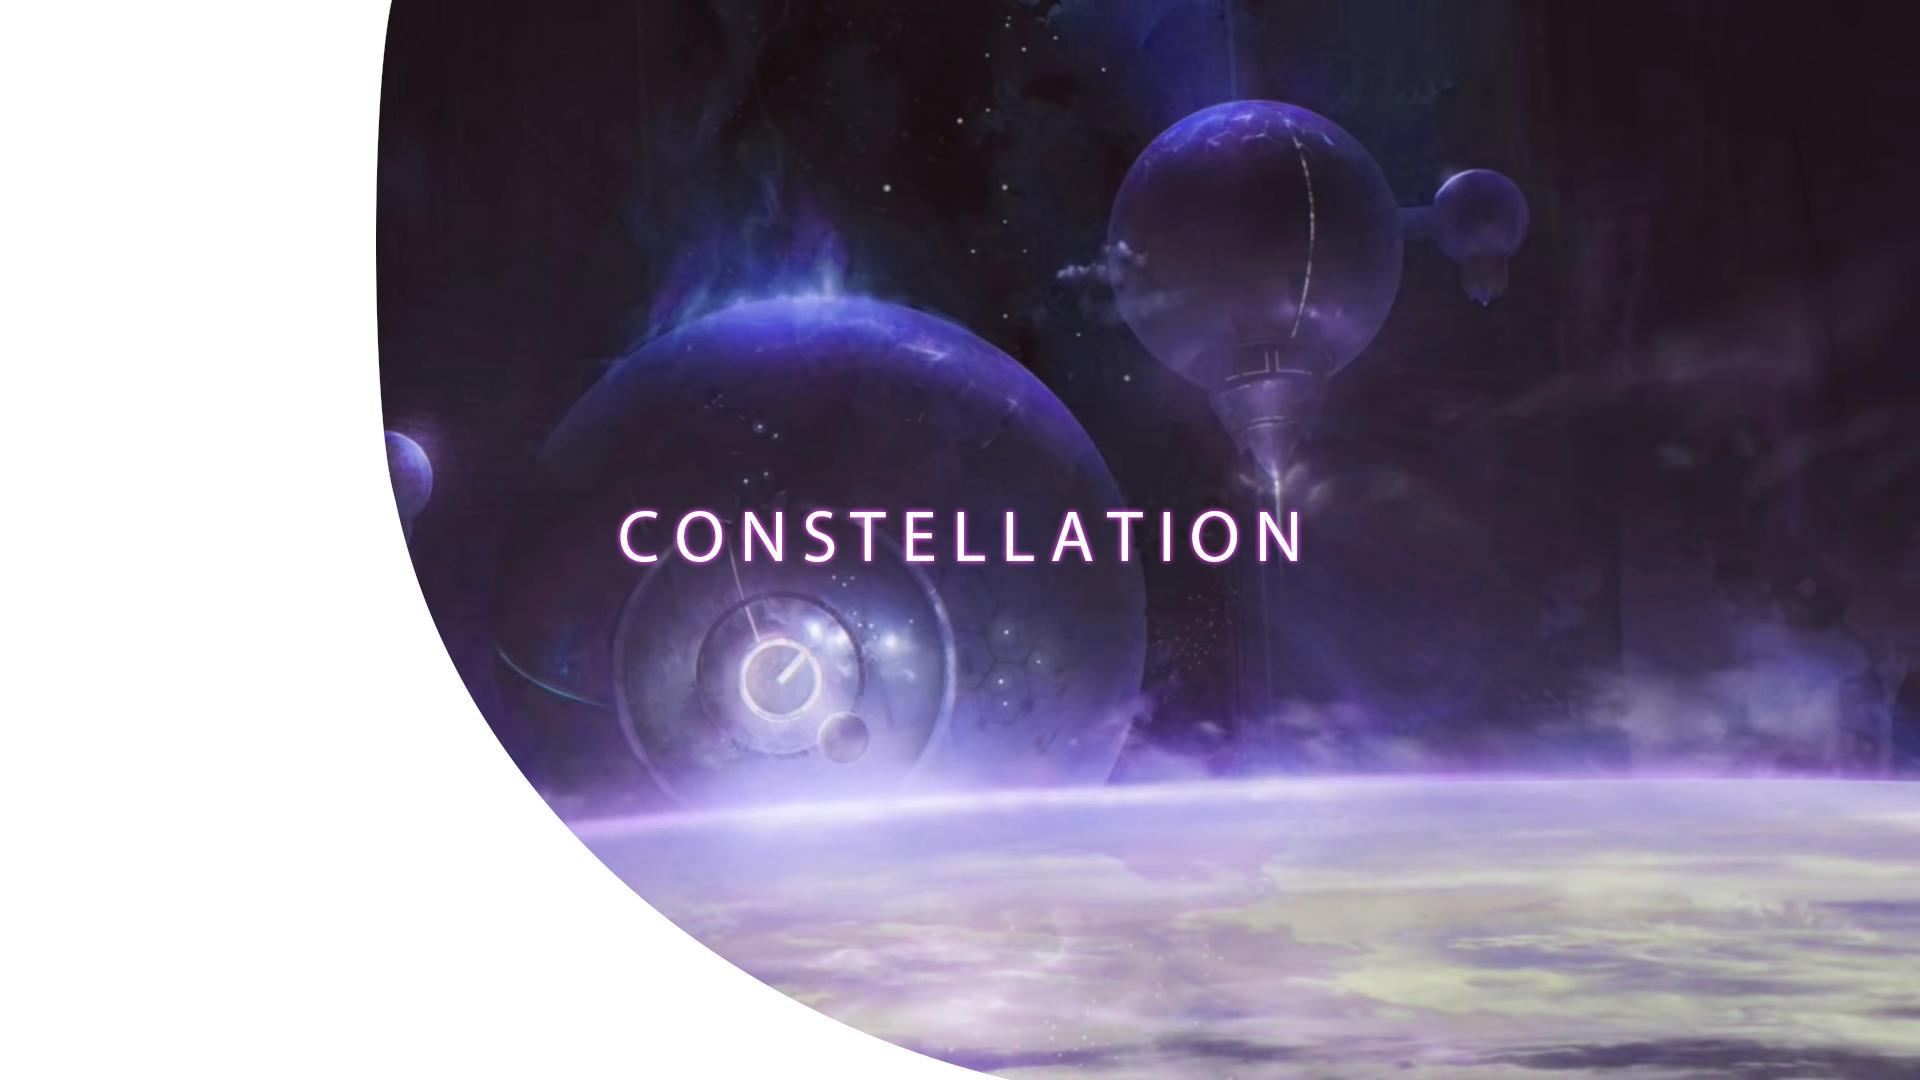
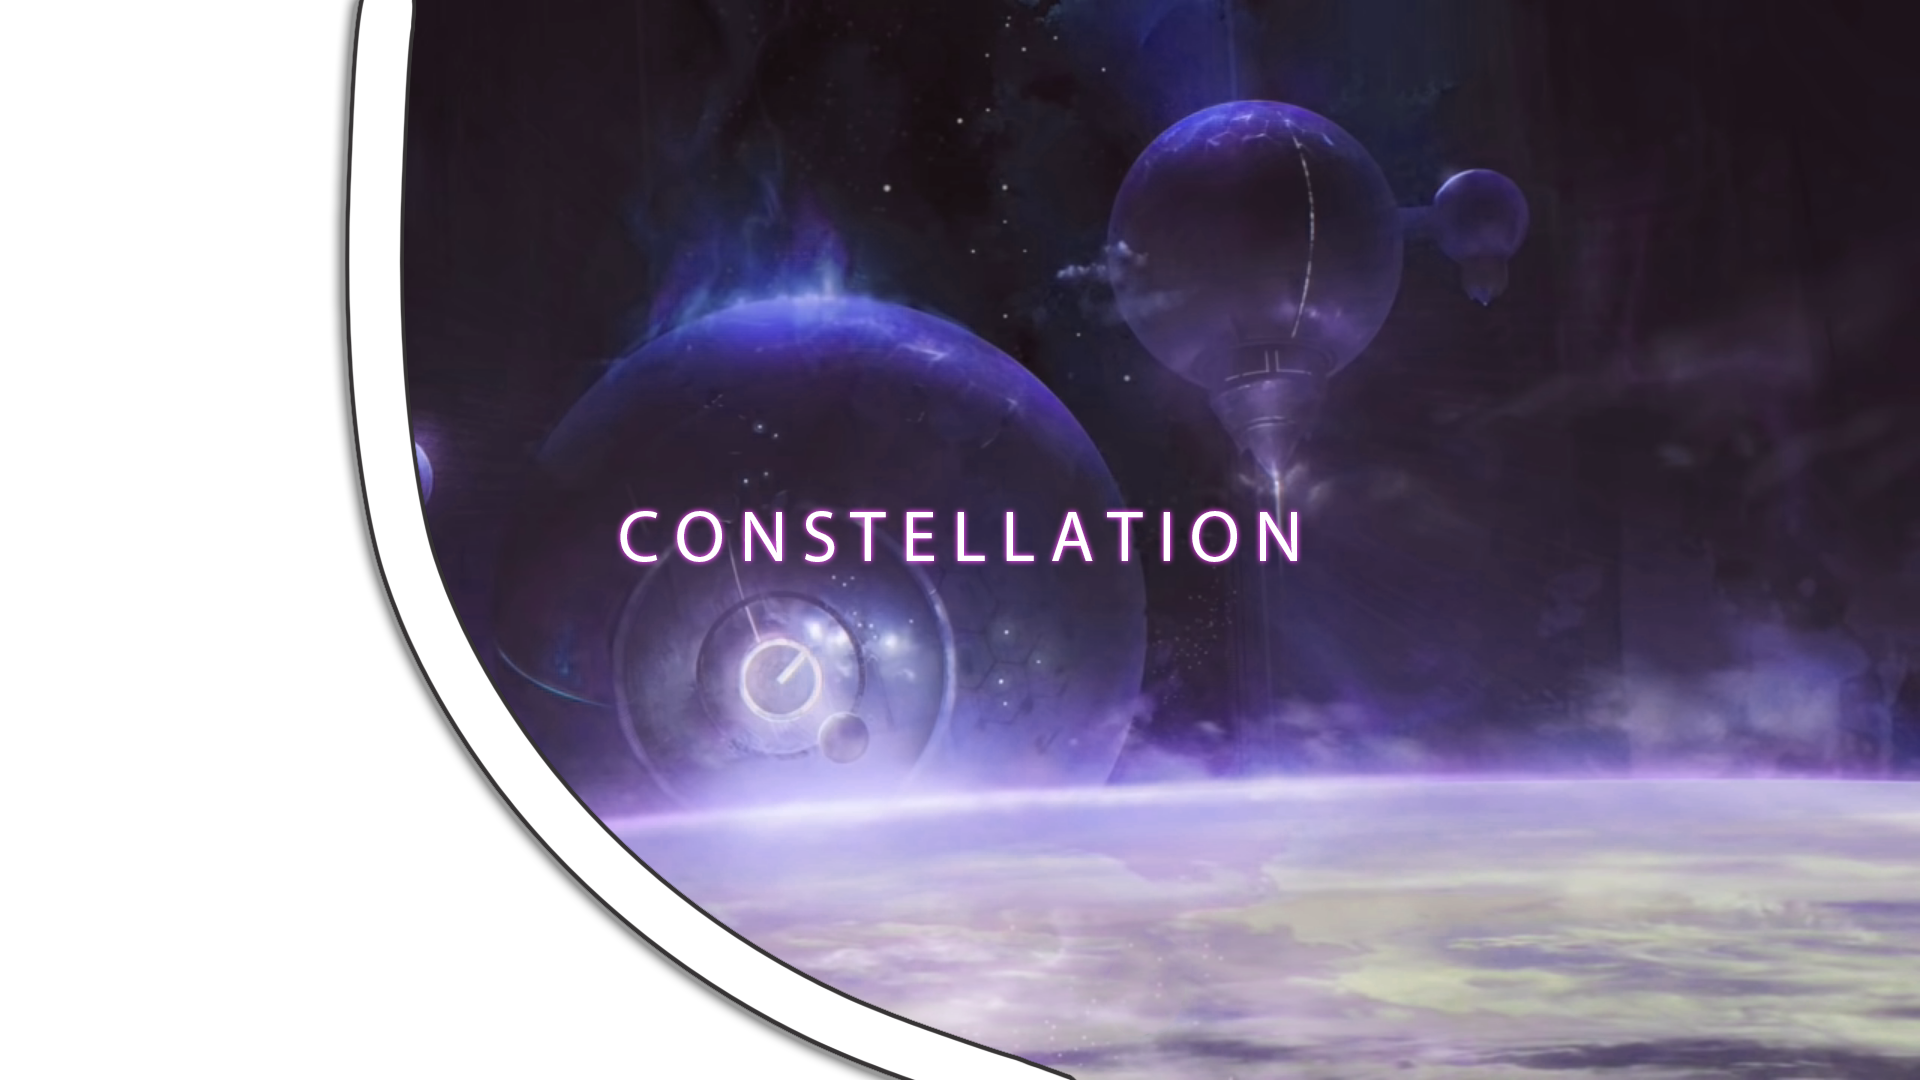
Border?

Changed region(s): [[0.1562, 0.0, 0.5625, 1.0]]

diff --git a/Buntek/Buntek/Scene_MainMenu.cpp b/Buntek/Buntek/Scene_MainMenu.cpp
@@ -40,6 +40,7 @@ void Scene_MainMenu::Start(void)
 	AssetManager.LoadTexture("Menu/Disc.png");
 	AssetManager.LoadTexture("Menu/Fake.png");
 	AssetManager.LoadTexture("Menu/Bottom.png");
+	AssetManager.LoadTexture("Menu/Border.png");
 
 	background = new GameObject();
 	background->AddComponent<SpriteRenderer>()->Size(1920, 1080);
@@ -125,6 +126,9 @@ void Scene_MainMenu::Start(void)
 	bottom = devTools.CreateSpriteGameObject("Menu/Bottom.png", 1920, 83, AE_GFX_BM_BLEND, Vector2(0, -490), 2)->transform;
 	bottom->SetScale(Vector2(0.0f, 2.0f));
 
+	border = devTools.CreateSpriteGameObject("Menu/Border.png", 1920, 1080, AE_GFX_BM_BLEND, Vector2(0, 1080), 1)->transform;
+	border->SetRotation(360);
+
 	// Load save data
 	//SaveManager.LoadData();
 }
@@ -147,6 +151,9 @@ void Scene_MainMenu::Update(void)
 		fake->Rotate(DeltaTime * 180.1f);
 		fake->SetScale(Vector2(fake->worldscale.x -= DeltaTime, fake->worldscale.y -= DeltaTime));
 
+		border->Translate(Vector2(0.0f, -1080 * DeltaTime));
+		border->Rotate(DeltaTime * -360.1f);
+
 		startBtn->transform->Translate(Vector2(0.0f, DeltaTime * -1200));
 		optionBtn->transform->Translate(Vector2(0.0f, DeltaTime * -1300));
 		quitBtn->transform->Translate(Vector2(0.0f, DeltaTime * -1400));
@@ -166,9 +173,11 @@ void Scene_MainMenu::Update(void)
 	{
 		polkaDotter->SetTransparency(1);
 		fake->Owner()->GetComponent<SpriteRenderer>()->SetTransparency(0);
+		border->Owner()->GetComponent<SpriteRenderer>()->SetTransparency(0);
 		background->GetComponent<SpriteRenderer>()->SetTexture("Menu/MainMenuArt.png");
 		AssetManager.UnloadTexture("Menu/MainMenuFull.png");
 		AssetManager.UnloadTexture("Menu/Fake.png");
+		AssetManager.UnloadTexture("Menu/Border.png");
 		disc->SetScale(Vector2(1, 1));
 		bottom->SetScale(Vector2(1, 1));
 

diff --git a/Buntek/Buntek/Scene_MainMenu.h b/Buntek/Buntek/Scene_MainMenu.h
@@ -20,7 +20,7 @@ private:
     GameObject* background = 0, *MainMenu = 0;
     GameObject* startBtn = 0, * optionBtn = 0, * quitBtn = 0;
     SpriteRenderer* polkaDotter = 0;
-    Transform* disc = 0, *fake = 0, *bottom = 0;
+    Transform* disc = 0, *fake = 0, *bottom = 0, *border = 0;
     float animTimer = 0;
     bool finishedSetup = false;
 };
